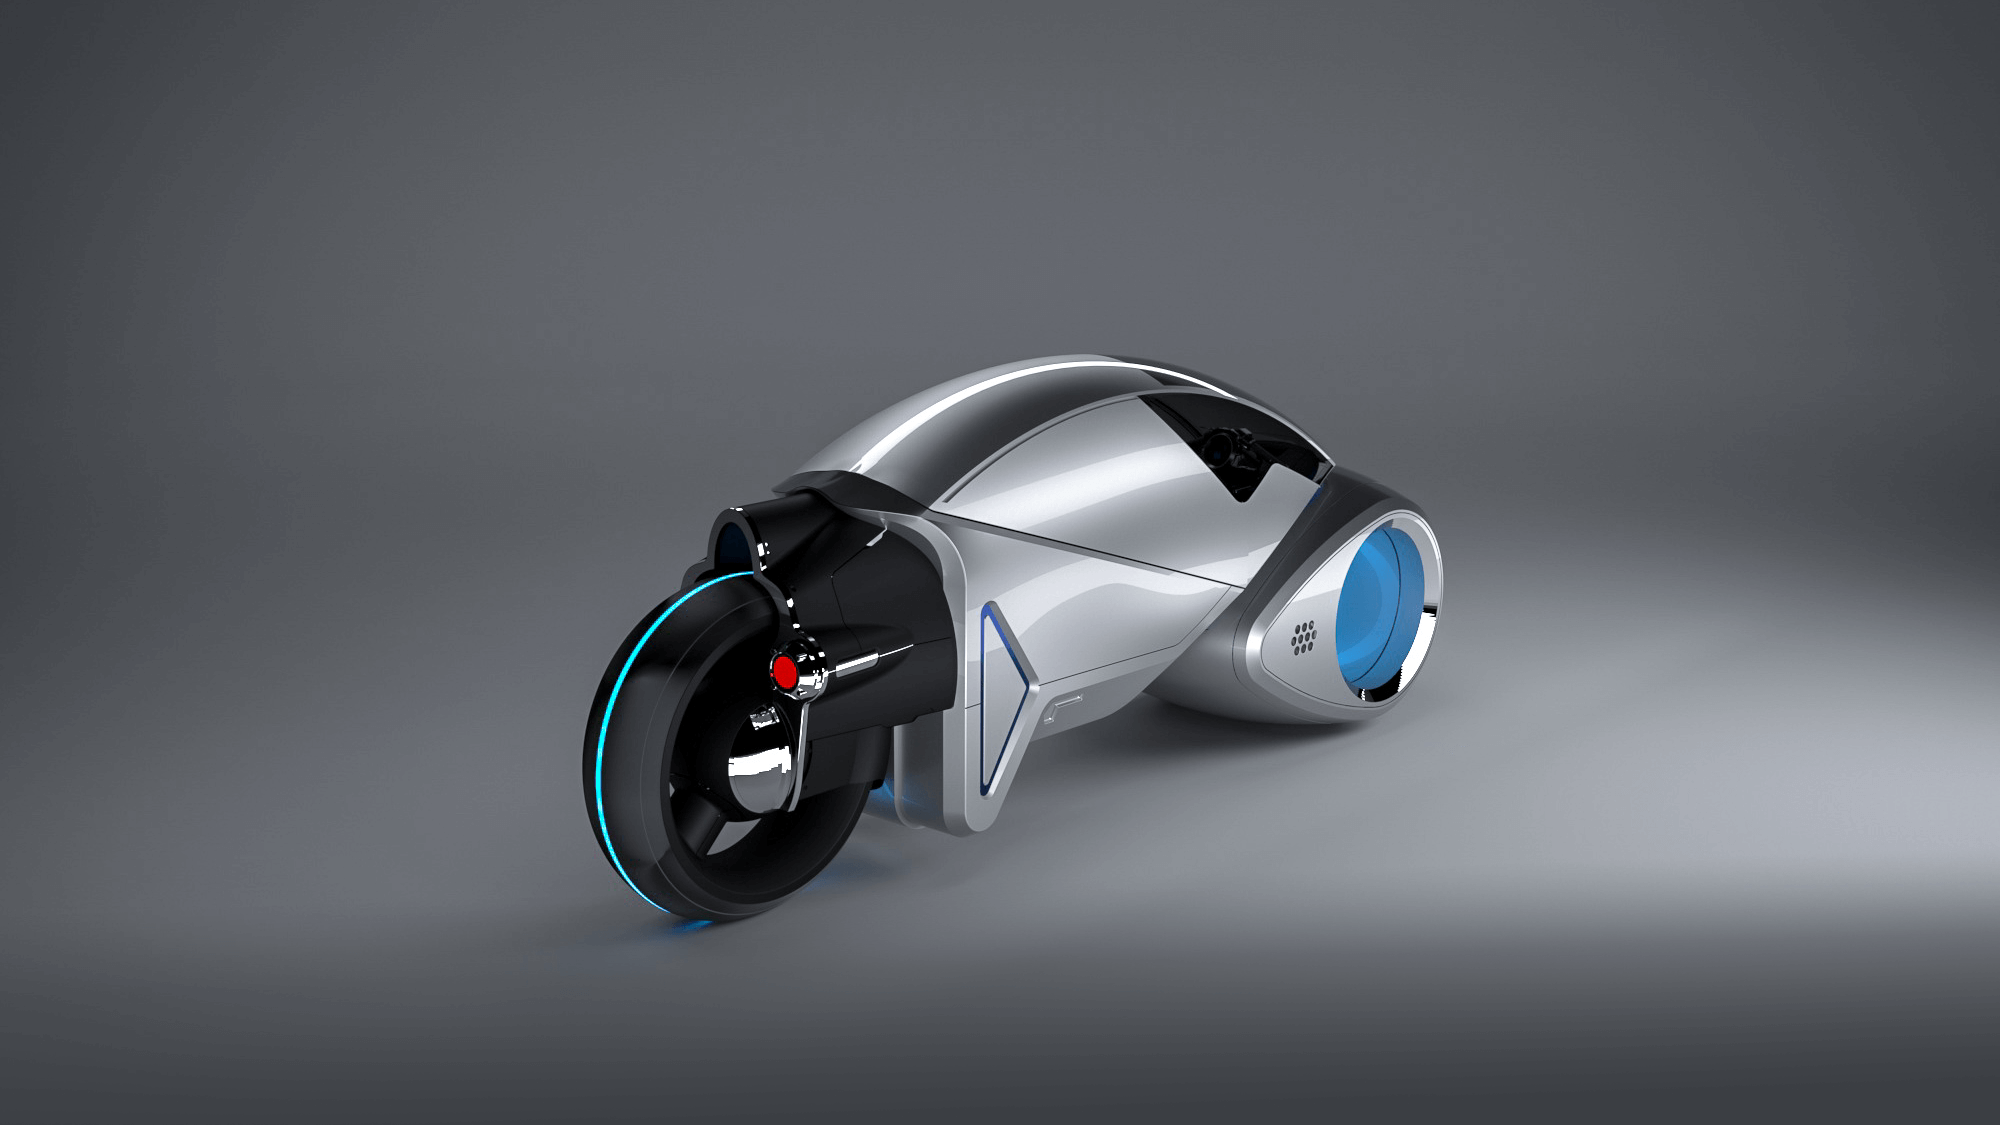
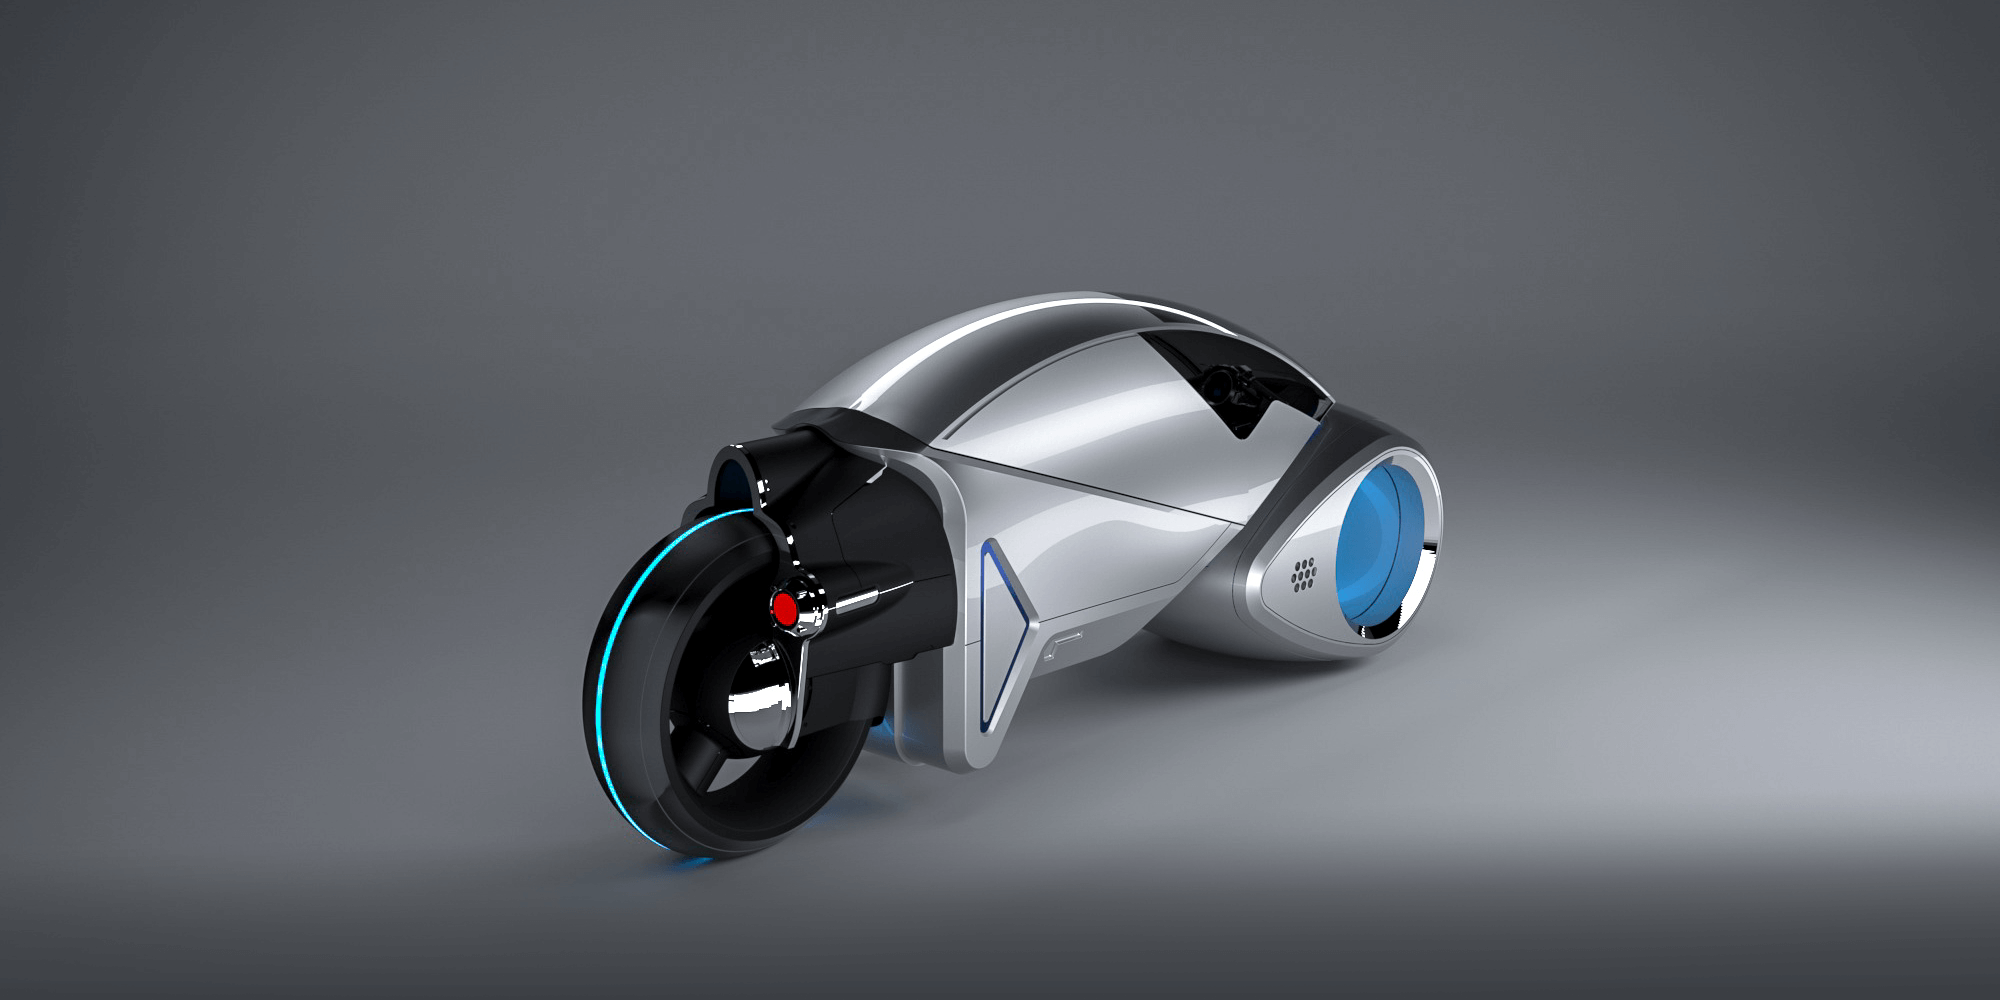
Big images and menu animation desktop done!

diff --git a/style.css b/style.css
@@ -466,7 +466,6 @@
     height: 100vh;
     width: 100vw;
     display: grid;
-
   }
   .contactinfo {
     margin-left: 10px;
@@ -671,14 +670,15 @@
 
   /* Styling and animation of the two content divs */
   .menu-selector {
-    width: 100vw;
+    width: 0;
     height: 100vh;
     top: 56px;
+    right: 0;
     background-color: black;
     position: fixed;
-    opacity: 0;
     z-index: 500;
     pointer-events: none;
+    transition: 0.5s;
   }
 
   .index-selector {
@@ -689,6 +689,7 @@
   }
 
   .display {
+    width: 100vw;
     opacity: 1;
     pointer-events: all;
   }
@@ -772,15 +773,19 @@
     flex-direction: column;
     align-items: center;
     justify-content: space-between;
+    font-weight: 700;
   }
   .shortcuts {
+    height: 60%;
     display: flex;
+    margin: 20pt 0 0 0;
     flex-direction: column;
     align-items: center;
+    justify-content: space-around;
     font-size: 14pt;
   }
   .shortcuts a {
-    margin: 0 0 40pt 0;
+    margin: 40pt 0 0 0;
     color: white;
   }
   .lang {
@@ -795,7 +800,8 @@
     margin: 0;
     color: white;
     background-color: black;
-    border: solid 1px grey;
+    border: solid 1px #1d1d1d;
+    font-weight: 700;
   }
 
   .first-page {
@@ -804,7 +810,7 @@
     display: flex;
     flex-direction: column;
     background-image: url("images/Desktop/Img_1.png");
-    background-size: contain;
+    background-size: cover;
     background-repeat: no-repeat;
   }
   .scroll-down {
@@ -819,14 +825,14 @@
     justify-content: flex-start;
     align-items: flex-start;
     background-image: url("images/Desktop/Img_2.png");
-    background-size: contain;
+    background-size: cover;
     background-repeat: no-repeat;
   }
   .third-page {
     width: 100%;
     height: 100vh;
     background-image: url("images/Desktop/Img_3.png");
-    background-size: contain;
+    background-size: cover;
     background-repeat: no-repeat;
   }
   .fourth-page {
@@ -977,7 +983,8 @@
   .headline h2 {
     border-left: 4pt solid blue;
     padding-left: 10px;
-    font-size: 104pt;
+    font-size: 104px;
+    font-weight: 700;
   }
   /* signup style */
 
